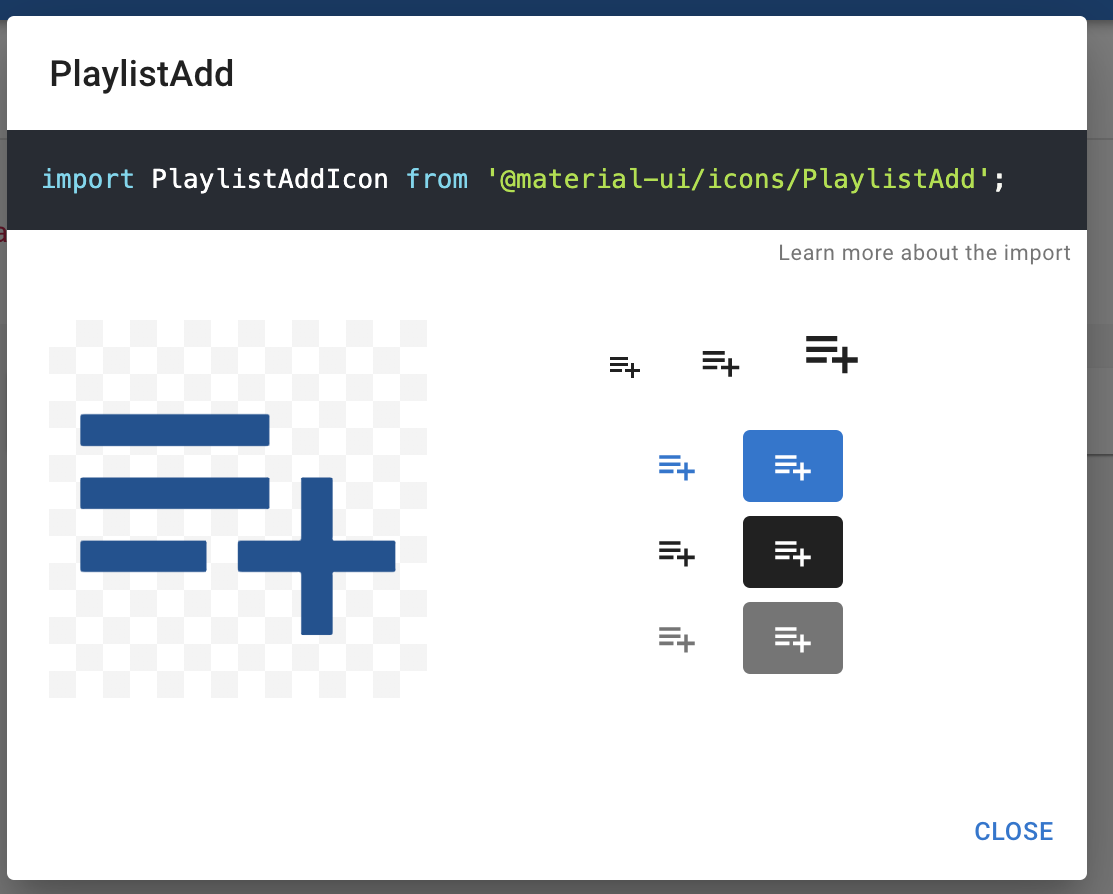
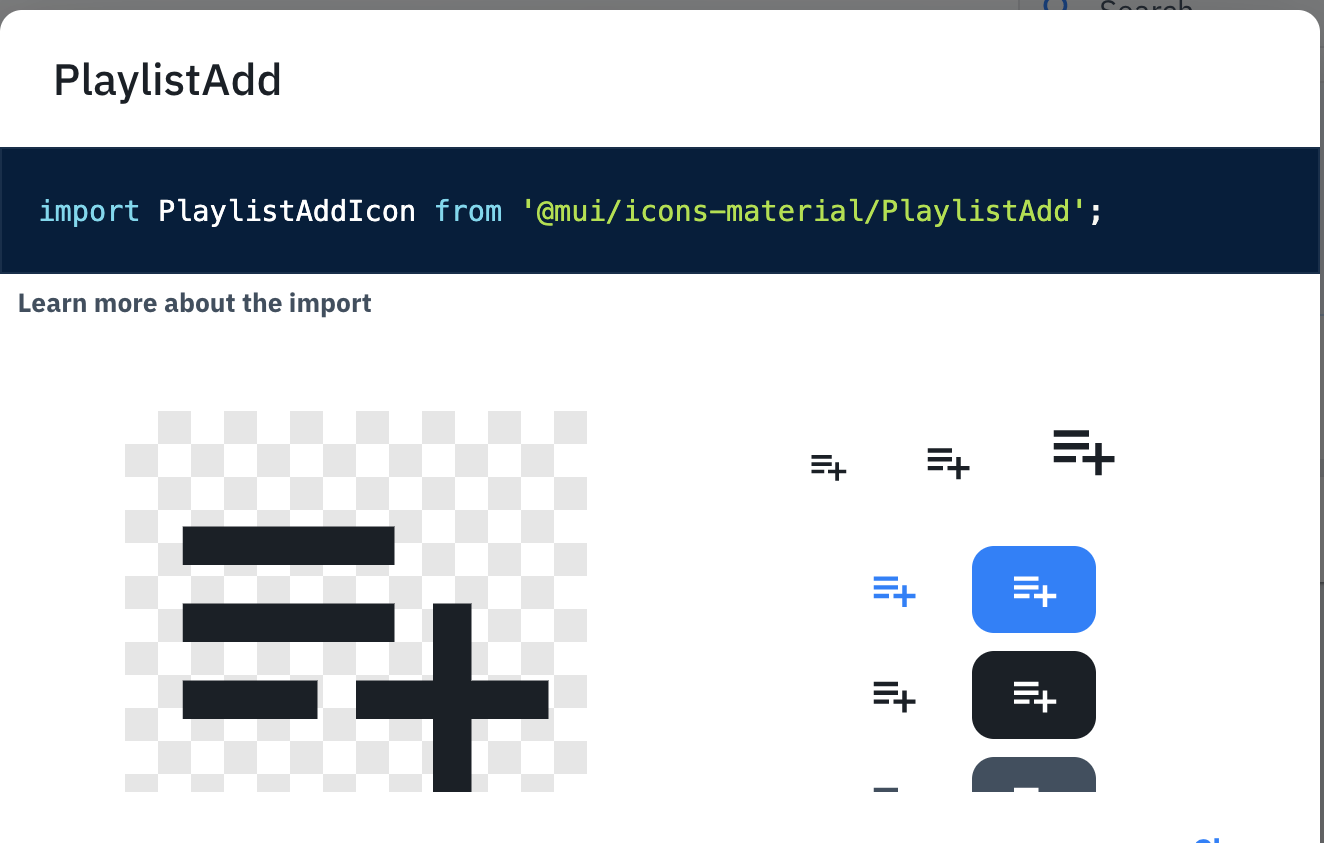
Complete updates to Movies App lab, part 4

diff --git a/topic06/book-1/06.Exercise.md b/topic06/book-1/06.Exercise.md
@@ -7,7 +7,7 @@ On completion, update your repository:
 ~~~
 $ git add -A
 $ git commit -m "Fix upcoming movies page."
-$ git push origin main
+$ git push origin master
 ~~~
 ## Exercise 2.
 
@@ -19,24 +19,27 @@ The icon is called PlaylistAdd:
 
 ![][playlistadd]
 
-Ultimately, it should allow the user to add the movie to their 'to watch' list. For now, you only need this icon to render on the page's movie cards - it does not need to trigger any action.
+Ultimately, it should allow the user to add the movie to their 'must watch' list. For now, you only need this icon to render on the page's movie cards - it does not need to trigger any action.
 
 On completion, update your repository:
 ~~~
 $ git add -A
 $ git commit -m "New button for upcoming movies page."
-$ git push origin main
+$ git push origin master
 ~~~
 
 ## Exercise 3.
 
 Currently, the Upcoming movies page retrieves the list of upcoming movies using the useEffect hook. Consequently, every time the page is mounted, an HTTP request is made to TMDB. A better solution would be to leverage the caching support provided by the react-query library. 
 
-__You are required__ to change the implementation to meet this requirement. On completion, update your repository:
+
+__You are required__ to change the implementation to meet this requirement. If you have already incorporated this into your exercise 1 solution then go on to the next exercise 4.
+
+On completion, update your repository:
 ~~~
 $ git add -A
 $ git commit -m "Change upcoming movies page to use caching."
-$ git push origin main
+$ git push origin master
 ~~~
 
 ## Exercise 4.
@@ -51,10 +54,11 @@ On completion, update your repository:
 ~~~
 $ git add -A
 $ git commit -m "Tagging upcoming movies as must-watch."
-$ git push origin main
+$ git push origin master
 ~~~
 
 -----------------------------
+
 Ideally, the tagged movie should be reflected in the Upcoming movies page, as shown below:
 
 ![][mustwatch]

diff --git a/topic06/book-1/05.Storybook.md b/topic06/book-1/05.Storybook.md
@@ -37,7 +37,7 @@ Commit this work:
 ~~~
 $ git add -A
 $ git commit -m "Fix broken stories in Storybook."
-$ git push origin main
+$ git push origin master
 ~~~
 
 [stories]: ./archive/stories.zip
